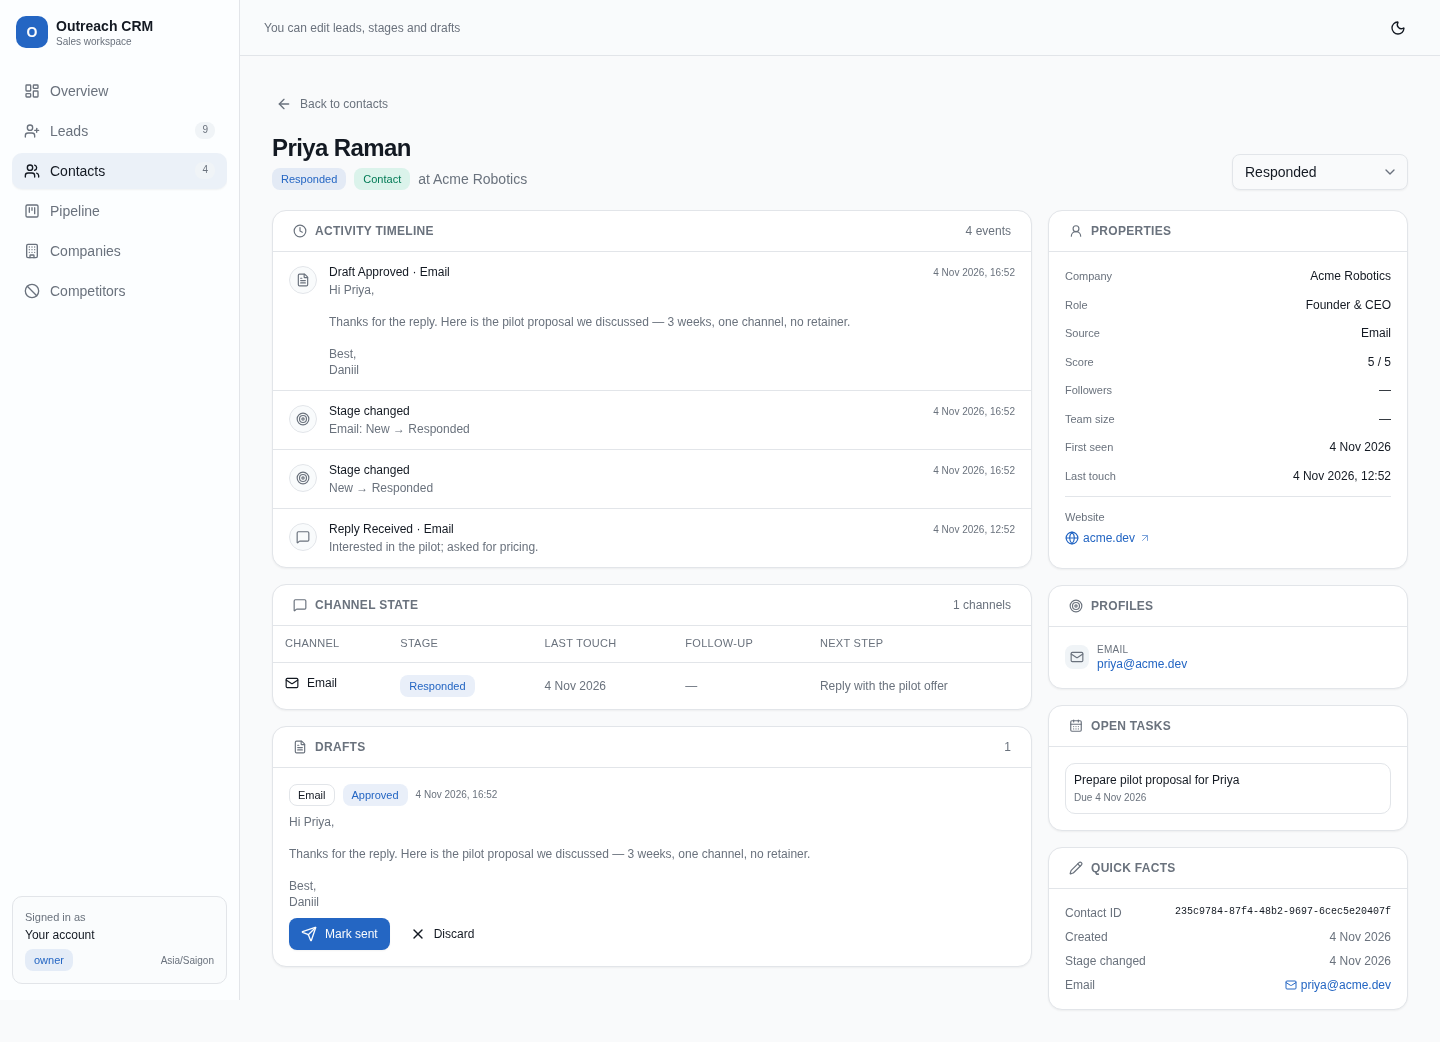
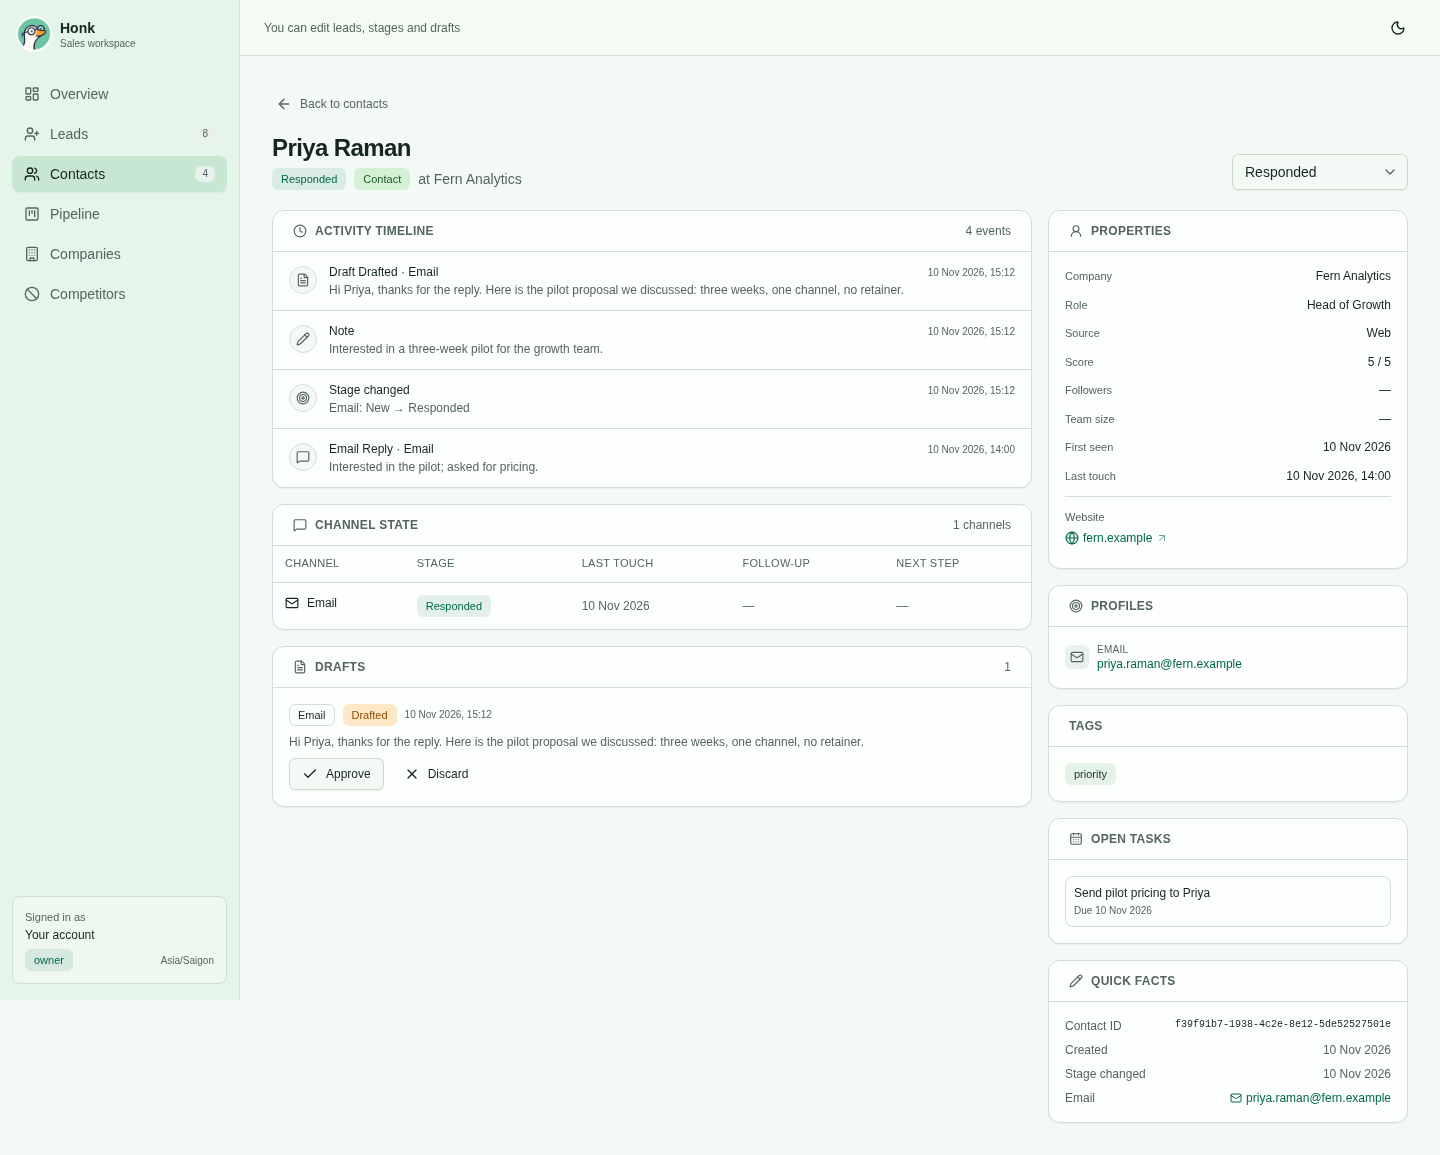
Refresh Honk screenshots with reproducible demo data

diff --git a/scripts/seed-screenshots.ts b/scripts/seed-screenshots.ts
@@ -1,0 +1,122 @@
+/** Populate an isolated local D1 database with fictional data for UI screenshots. */
+import { mkdirSync, writeFileSync } from "node:fs";
+
+const base = process.env.SCREENSHOT_URL ?? "http://localhost:5174";
+const email = "screenshots@example.test";
+const password = crypto.randomUUID() + "-Honk-demo-2026!";
+let cookie = "";
+let orgId = "";
+
+async function post(path: string, body: Record<string, unknown>) {
+  const response = await fetch(`${base}${path}`, {
+    method: "POST",
+    headers: {
+      "content-type": "application/json",
+      origin: base,
+      ...(cookie ? { cookie } : {}),
+      ...(orgId ? { "x-org-id": orgId } : {}),
+    },
+    body: JSON.stringify(body),
+  });
+  const setCookies = response.headers.getSetCookie().map((value) => value.split(";")[0]);
+  if (setCookies.length) cookie = setCookies.join("; ");
+  const result = await response.json().catch(() => ({})) as Record<string, any>;
+  if (!response.ok || result.error) throw new Error(`${path}: ${response.status} ${JSON.stringify(result)}`);
+  return result;
+}
+
+const day = (days: number) => new Date(Date.now() + days * 86_400_000).toISOString();
+const today = new Date();
+const deadline = new Date(today.getTime() + 45 * 86_400_000).toISOString().slice(0, 10);
+
+await post("/api/auth/sign-up/email", { email, password, name: "Demo Owner" });
+const org = await post("/api/auth/organization/create", { name: "Honk Demo", slug: "honk-demo" });
+orgId = org.id;
+if (!orgId) throw new Error(`Organization creation returned no id: ${JSON.stringify(org)}`);
+
+const tool = (name: string, body: Record<string, unknown> = {}) => post(`/v1/${name}`, body);
+
+const companies = [
+  ["Northstar Labs", "northstar.example", "startup", 24, ["TypeScript", "Cloudflare"]],
+  ["Willow Studio", "willow.example", "agency", 12, ["React", "Figma"]],
+  ["Fern Analytics", "fern.example", "startup", 38, ["Python", "Postgres"]],
+  ["Riverbend Health", "riverbend.example", "enterprise", 160, ["Salesforce", "Snowflake"]],
+  ["Moss & Co", "moss.example", "agency", 18, ["Notion", "HubSpot"]],
+  ["Pinecone Works", "pinecone.example", "startup", 9, ["Next.js", "Supabase"]],
+] as const;
+for (const [name, domain, type, team_size, stack] of companies) {
+  await tool("upsert_company", { name, domain, type, team_size, stack: [...stack], website: `https://${domain}` });
+}
+
+const people = [
+  { name: "Hana Sato", company: "willow.example", role: "Founder", stage: "call_booked", channel: "email", score: 5 },
+  { name: "Priya Raman", company: "fern.example", role: "Head of Growth", stage: "responded", channel: "email", score: 5 },
+  { name: "Mateo Silva", company: "northstar.example", role: "VP Sales", stage: "contacted", channel: "linkedin", score: 4 },
+  { name: "Sofia Rossi", company: "moss.example", role: "Partner", stage: "connected", channel: "threads", score: 4 },
+  { name: "Daniel Kim", company: "pinecone.example", role: "Co-founder", stage: "connected", channel: "linkedin", score: 4 },
+  { name: "Noah Williams", company: "northstar.example", role: "CEO", stage: "drafted", channel: "x", score: 5 },
+  { name: "Emil Novak", company: "riverbend.example", role: "Operations Lead", stage: "contacted", channel: "email", score: 3 },
+  { name: "Amina Yusuf", company: "willow.example", role: "Creative Director", stage: "qualified", channel: "x", score: 4 },
+  { name: "Leo Martin", company: "fern.example", role: "Growth Analyst", stage: "new", channel: "reddit", score: 3 },
+  { name: "Iris Chen", company: "pinecone.example", role: "Product Lead", stage: "new", channel: "email", score: 4 },
+  { name: "Olivia Park", company: "riverbend.example", role: "Director", stage: "pilot", channel: "email", score: 5 },
+  { name: "Ethan Brooks", company: "moss.example", role: "Founder", stage: "paying", channel: "linkedin", score: 5 },
+  { name: "Maya Patel", company: "northstar.example", role: "Community Lead", stage: "lost", channel: "x", score: 2 },
+  { name: "Jules Moreau", company: "fern.example", role: "Recruiter", stage: "do_not_contact", channel: "email", score: 1 },
+] as const;
+
+const ids = new Map<string, string>();
+for (const person of people) {
+  const username = person.name.toLowerCase().replace(/[^a-z]+/g, ".").replace(/\.$/, "");
+  const result = await tool("upsert_contact", {
+    name: person.name,
+    email: `${username}@${person.company}`,
+    role: person.role,
+    stage: person.stage,
+    score: person.score,
+    source: "web",
+    company_domain: person.company,
+    bio_summary: `${person.role} at ${companies.find((c) => c[1] === person.company)?.[0]}. Exploring more thoughtful outreach workflows.`,
+    tags: person.score >= 4 ? ["priority"] : ["research"],
+  });
+  const id = result.id ?? result.contact?.id ?? result.contact_id;
+  if (!id) throw new Error(`Contact creation returned no id: ${JSON.stringify(result)}`);
+  ids.set(person.name, id);
+  if (person.stage !== "lost" && person.stage !== "do_not_contact") {
+    await tool("set_channel_state", { contact_id: id, channel: person.channel, stage: person.stage });
+  }
+}
+
+for (const [name, channel, days, next_step] of [
+  ["Hana Sato", "email", -2, "Prepare the demo"],
+  ["Mateo Silva", "linkedin", -1, "Send a follow-up note"],
+  ["Emil Novak", "email", -1, "Share the case study"],
+  ["Daniel Kim", "linkedin", 0, "Send first message"],
+  ["Sofia Rossi", "threads", 0, "Send first message"],
+] as const) {
+  await tool("set_channel_state", { contact_id: ids.get(name), channel, next_followup_at: day(days), next_step });
+}
+
+await tool("create_task", { title: "Review Hana's demo agenda", contact_id: ids.get("Hana Sato"), due_at: day(-1) });
+await tool("create_task", { title: "Send pilot pricing to Priya", contact_id: ids.get("Priya Raman"), due_at: day(0) });
+await tool("add_note", { entity_id: ids.get("Priya Raman"), body: "Interested in a three-week pilot for the growth team." });
+await tool("add_note", { entity_id: ids.get("Hana Sato"), body: "Asked for a walkthrough of the agent-assisted pipeline." });
+
+await tool("record_event", { contact_id: ids.get("Priya Raman"), type: "email_reply", channel: "email", external_id: "demo-priya-reply", occurred_at: day(-0.05), summary: "Interested in the pilot; asked for pricing." });
+await tool("log_touch", { contact_id: ids.get("Mateo Silva"), channel: "linkedin", direction: "outbound", status: "sent", body: "Enjoyed your post about practical sales workflows.", sent_at: day(-5) });
+await tool("log_touch", { contact_id: ids.get("Olivia Park"), channel: "email", direction: "inbound", status: "replied", body: "The pilot team is ready to start next week.", sent_at: day(-1) });
+
+for (const [name, channel, text] of [
+  ["Priya Raman", "email", "Hi Priya, thanks for the reply. Here is the pilot proposal we discussed: three weeks, one channel, no retainer."],
+  ["Sofia Rossi", "threads", "Hey Sofia — loved your post on lifecycle automation. Open to a quick look at how Honk keeps the next step visible?"],
+  ["Noah Williams", "x", "Noah — saw your team building agent infrastructure at Northstar. Would be great to compare notes on outbound workflows."],
+] as const) {
+  await tool("create_draft", { contact_id: ids.get(name), channel, text });
+}
+
+await tool("set_goals", { targets: [{ stage: "pilot", count: 10 }, { stage: "paying", count: 3 }], deadline });
+for (const value of ["rivalcrm.example", "Gooseforce", "@rivalcrm"]) await tool("add_competitor", { value });
+
+mkdirSync(".wrangler/screenshot-config", { recursive: true });
+writeFileSync(".wrangler/screenshot-config/login.json", JSON.stringify({ base, email, password, orgId, ids: Object.fromEntries(ids) }, null, 2), { mode: 0o600 });
+console.log(`Seeded ${people.length} fictional contacts, ${companies.length} companies, and demo activity.`);

diff --git a/scripts/prepare-screenshots.ts b/scripts/prepare-screenshots.ts
@@ -1,0 +1,26 @@
+/** Set up an isolated local Worker/D1 instance for the screenshot fixture. */
+import { spawnSync } from "node:child_process";
+import { mkdirSync, readFileSync, rmSync, writeFileSync } from "node:fs";
+
+const directory = ".wrangler/screenshot-config";
+const state = ".wrangler/screenshot-state";
+if (process.argv.includes("--reset")) rmSync(state, { recursive: true, force: true });
+
+const vars = readFileSync(".dev.vars", "utf8");
+if (!/^BETTER_AUTH_SECRET=/m.test(vars)) throw new Error("Set BETTER_AUTH_SECRET in .dev.vars first");
+const localVars = /^BETTER_AUTH_URL=/m.test(vars)
+  ? vars.replace(/^BETTER_AUTH_URL=.*$/m, "BETTER_AUTH_URL=http://localhost:5174")
+  : `${vars.trimEnd()}\nBETTER_AUTH_URL=http://localhost:5174\n`;
+
+mkdirSync(directory, { recursive: true });
+writeFileSync(`${directory}/.dev.vars`, localVars, { mode: 0o600 });
+const config = JSON.parse(readFileSync("wrangler.jsonc", "utf8"));
+config.main = "../../src/index.ts";
+config.d1_databases[0].migrations_dir = "../../migrations";
+config.vars.BETTER_AUTH_URL = "http://localhost:5174";
+writeFileSync(`${directory}/wrangler.jsonc`, JSON.stringify(config, null, 2));
+
+const migration = spawnSync("bunx", ["wrangler", "d1", "migrations", "apply", "DB", "--local", "--persist-to", state], { stdio: "inherit" });
+if (migration.error) throw migration.error;
+if (migration.status !== 0) process.exit(migration.status ?? 1);
+console.log("Screenshot database ready. Start with: bunx vite --config vite.screenshots.config.ts");

diff --git a/vite.screenshots.config.ts b/vite.screenshots.config.ts
@@ -1,0 +1,15 @@
+import path from "node:path";
+import react from "@vitejs/plugin-react";
+import tailwindcss from "@tailwindcss/vite";
+import { cloudflare } from "@cloudflare/vite-plugin";
+import { defineConfig } from "vite";
+
+export default defineConfig({
+  plugins: [react(), tailwindcss(), cloudflare({
+    configPath: ".wrangler/screenshot-config/wrangler.jsonc",
+    viteEnvironment: { name: "worker" },
+    persistState: { path: ".wrangler/screenshot-state" },
+  })],
+  server: { port: 5174, strictPort: true },
+  resolve: { alias: { "@": path.resolve(import.meta.dirname, "src") } },
+});

diff --git a/docs/technical-reference.md b/docs/technical-reference.md
@@ -114,6 +114,12 @@ WhatsApp numbers stay masked and are never linked unless an admin requests priva
 | ![Contact detail](screenshots/contact-detail.png) | ![Companies](screenshots/companies.png) |
 | ![Competitors](screenshots/competitors.png) | ![Dark mode](screenshots/overview-dark.png) |
 
+These images use fictional data. To recreate the isolated local database, run
+`bun scripts/prepare-screenshots.ts --reset`, start `bunx vite --config vite.screenshots.config.ts`,
+then run `bun scripts/seed-screenshots.ts` in another terminal. The fixture creates 14 contacts,
+six companies, and example activity. Its temporary login is saved under `.wrangler/screenshot-config/`
+(ignored by Git). Capture the pages at `http://localhost:5174/dashboard`.
+
 **Identities:** email, x_handle, linkedin_url, reddit_user and github are normalized (lowercase, URL and `@`/`u/`
 prefixes stripped) and unique per org. Company domain is unique per org.
 ## Channels
